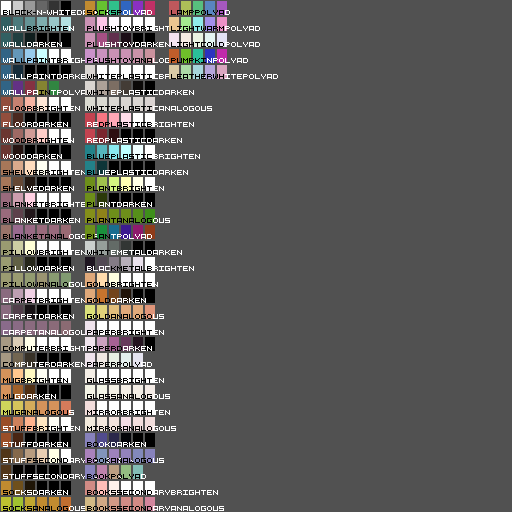
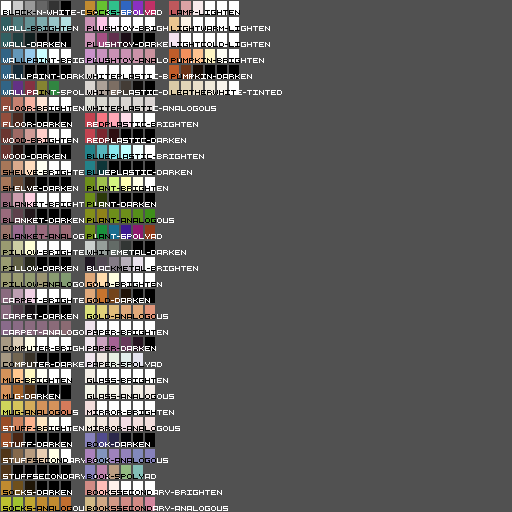
change(art): bedroom color atlas

diff --git a/Unity/AGA/Assets/Game/ColorScheme/Palettes/Editor/ColorSchemeCreator.cs b/Unity/AGA/Assets/Game/ColorScheme/Palettes/Editor/ColorSchemeCreator.cs
@@ -132,7 +132,7 @@ namespace GameLib.ColorScheme
                 if (source.GenerateBrighten > 0)
                 {
                     var colorSchemeItem = new ColorScheme.ColorItem();
-                    colorSchemeItem.Name = $"{rootName}Brighten";
+                    colorSchemeItem.Name = $"{rootName}-brighten";
                     colorSchemeItem.Palette = new Color[source.GenerateBrighten];
 
                     for (int i = 0; i < source.GenerateBrighten; ++i)
@@ -145,7 +145,7 @@ namespace GameLib.ColorScheme
                 if (source.GenerateLighten > 0)
                 {
                     var colorSchemeItem = new ColorScheme.ColorItem();
-                    colorSchemeItem.Name = $"{rootName}Lighten";
+                    colorSchemeItem.Name = $"{rootName}-lighten";
                     colorSchemeItem.Palette = new Color[source.GenerateLighten];
 
                     for (int i = 0; i < source.GenerateLighten; ++i)
@@ -158,7 +158,7 @@ namespace GameLib.ColorScheme
                 if (source.GenerateDarken > 0)
                 {
                     var colorSchemeItem = new ColorScheme.ColorItem();
-                    colorSchemeItem.Name = $"{rootName}Darken";
+                    colorSchemeItem.Name = $"{rootName}-darken";
                     colorSchemeItem.Palette = new Color[source.GenerateDarken];
 
                     for (int i = 0; i < source.GenerateDarken; ++i)
@@ -171,7 +171,7 @@ namespace GameLib.ColorScheme
                 if (source.GenerateTint > 0)
                 {
                     var colorSchemeItem = new ColorScheme.ColorItem();
-                    colorSchemeItem.Name = $"{rootName}Tint";
+                    colorSchemeItem.Name = $"{rootName}-tinted";
                     colorSchemeItem.Palette = new Color[source.GenerateTint];
 
                     for (int i = 0; i < source.GenerateTint; ++i)
@@ -184,7 +184,7 @@ namespace GameLib.ColorScheme
                 if (source.GenerateShade > 0)
                 {
                     var colorSchemeItem = new ColorScheme.ColorItem();
-                    colorSchemeItem.Name = $"{rootName}Shade";
+                    colorSchemeItem.Name = $"{rootName}-shaded";
                     colorSchemeItem.Palette = new Color[source.GenerateShade];
 
                     for (int i = 0; i < source.GenerateShade; ++i)
@@ -197,7 +197,7 @@ namespace GameLib.ColorScheme
                 if (source.GenerateSaturate > 0)
                 {
                     var colorSchemeItem = new ColorScheme.ColorItem();
-                    colorSchemeItem.Name = $"{rootName}Saturate";
+                    colorSchemeItem.Name = $"{rootName}-saturated";
                     colorSchemeItem.Palette = new Color[source.GenerateSaturate];
 
                     for (int i = 0; i < source.GenerateSaturate; ++i)
@@ -210,7 +210,7 @@ namespace GameLib.ColorScheme
                 if (source.GenerateDesaturate > 0)
                 {
                     var colorSchemeItem = new ColorScheme.ColorItem();
-                    colorSchemeItem.Name = $"{rootName}Desaturate";
+                    colorSchemeItem.Name = $"{rootName}-desaturated";
                     colorSchemeItem.Palette = new Color[source.GenerateDesaturate];
 
                     for (int i = 0; i < source.GenerateDesaturate; ++i)
@@ -223,7 +223,7 @@ namespace GameLib.ColorScheme
                 if (source.GenerateMonochromatic > 0)
                 {
                     var colorSchemeItem = new ColorScheme.ColorItem();
-                    colorSchemeItem.Name = $"{rootName}Monochromatic";
+                    colorSchemeItem.Name = $"{rootName}-monochromatic";
                     colorSchemeItem.Palette = new Color[source.GenerateMonochromatic];
 
                     var mData = tinyColor.Monochromatic(source.GenerateMonochromatic);
@@ -237,7 +237,7 @@ namespace GameLib.ColorScheme
                 if (source.GenerateAnalogous > 0)
                 {
                     var colorSchemeItem = new ColorScheme.ColorItem();
-                    colorSchemeItem.Name = $"{rootName}Analogous";
+                    colorSchemeItem.Name = $"{rootName}-analogous";
                     colorSchemeItem.Palette = new Color[source.GenerateAnalogous];
 
                     var aData = tinyColor.Analogous(source.GenerateAnalogous);
@@ -251,7 +251,7 @@ namespace GameLib.ColorScheme
                 if (source.GeneratePolyad > 0)
                 {
                     var colorSchemeItem = new ColorScheme.ColorItem();
-                    colorSchemeItem.Name = $"{rootName}Polyad";
+                    colorSchemeItem.Name = $"{rootName}-{source.GeneratePolyad}polyad";
                     colorSchemeItem.Palette = new Color[source.GeneratePolyad];
 
                     var pData = tinyColor.Polyad(source.GeneratePolyad);
